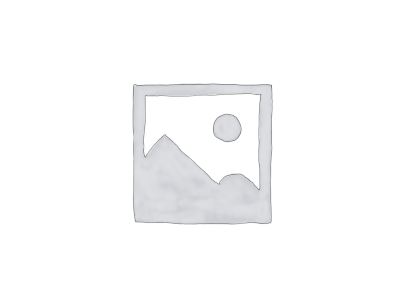
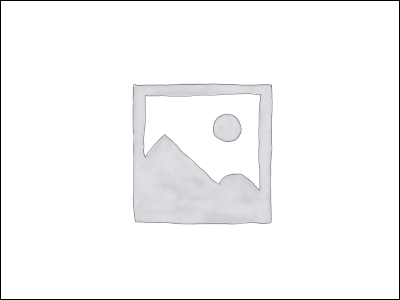
Placeholders gain a border and autoscale is not needed in TinyMCE template for figures.

Changed region(s): [[0.0, 0.0, 1.0, 1.0]]

diff --git a/src/ruddocom.policy/src/ruddocom/policy/theme/tinymce-templates/image-with-caption.html b/src/ruddocom.policy/src/ruddocom/policy/theme/tinymce-templates/image-with-caption.html
@@ -1,4 +1,4 @@
 <figure class="mceTmpl">
-    <img src="/++theme++rudd-o.com/images/placeholder-1200x1200.png"/>
+    <img src="/++theme++rudd-o.com/images/placeholder-600x600.png"/>
     <figcaption>Image caption goes here</figcaption>
 </figure>
